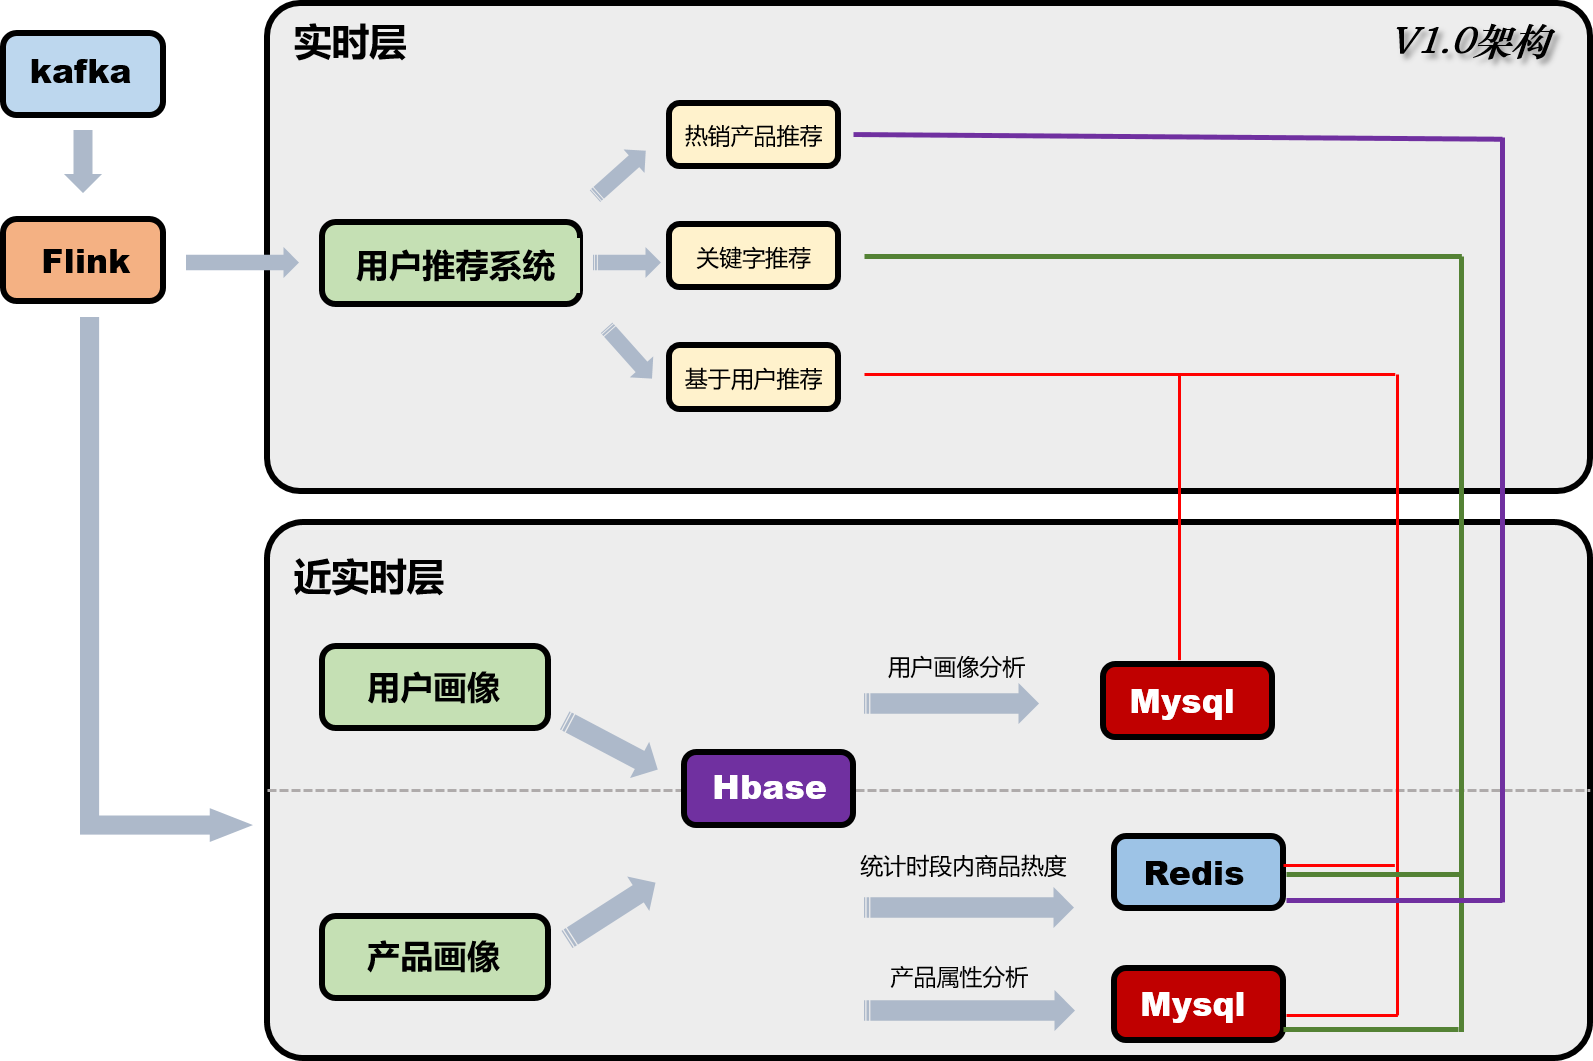
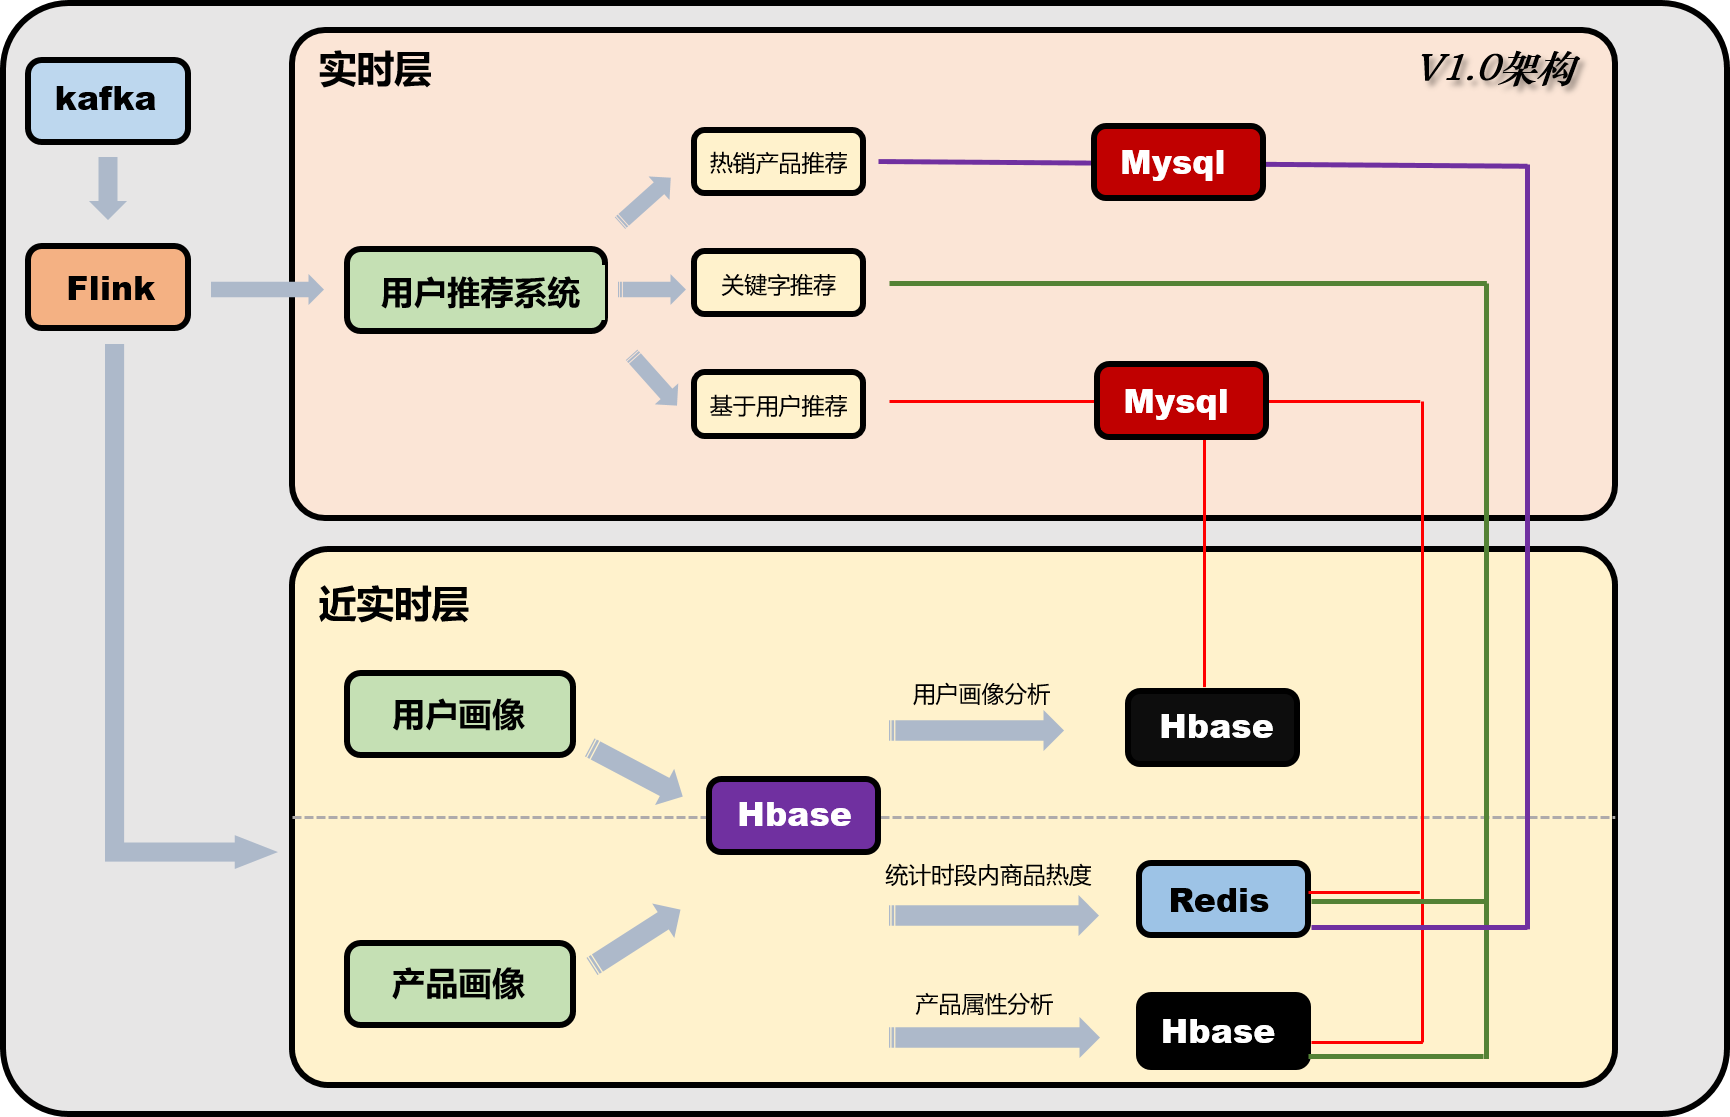
README -> 完善系统描述

diff --git a/README.md b/README.md
@@ -1,8 +1,32 @@
 # 商品实时推荐系统
 
-V1.0架构
+## V1.0架构
 
-![v1.0架构](resources/pic/v1.0架构.png)
+#### 1. 系统架构
 
-在V1.0架构中,用户推荐系统基于用户画像和热度榜两个维度,用户画像有三个特征,包含color/country/style三个角度
-![v1.0用户推荐流程](resources/pic/v1.0用户推荐流程.png)
+	当前系统主要分为两个模块,分别是日志数据导入Hbase(flink-2-hbase)和用户推荐模块(web)
+
+ - 在日志数据模块中,又主要分为三个部分:
+
+   - 日志导入:
+
+     从Kafka接收的数据直接导入进Hbase事实表,保存完整的日志log,日志中包含了用户Id,用户操作的产品id,操作时间,行为(如购买,点击,推荐等).
+
+   - 用户画像计算:
+
+     v1.0按照三个维度去计算用户画像,分别是用户的颜色兴趣,用户的产地兴趣,和用户的风格兴趣.根据日志不断的修改用户画像的数据,记录在Hbase中.
+
+   - 事实热度榜:
+
+     通过Flink时间窗口机制,统计当前时间的实时热度,并将数据缓存在Redis中
+
+ - 系统架构图
+
+<img src="resources/pic/v1.0架构.png" width="80%" height="100%">
+
+#### 2.基于用户画像的推荐逻辑
+
+	在V1.0架构中,用户推荐系统基于用户画像和热度榜两个维度,用户画像有三个特征,包含color/country/style三个角度
+
+<img src="resources/pic/v1.0用户推荐流程.png" width="80%" height="100%">
+
